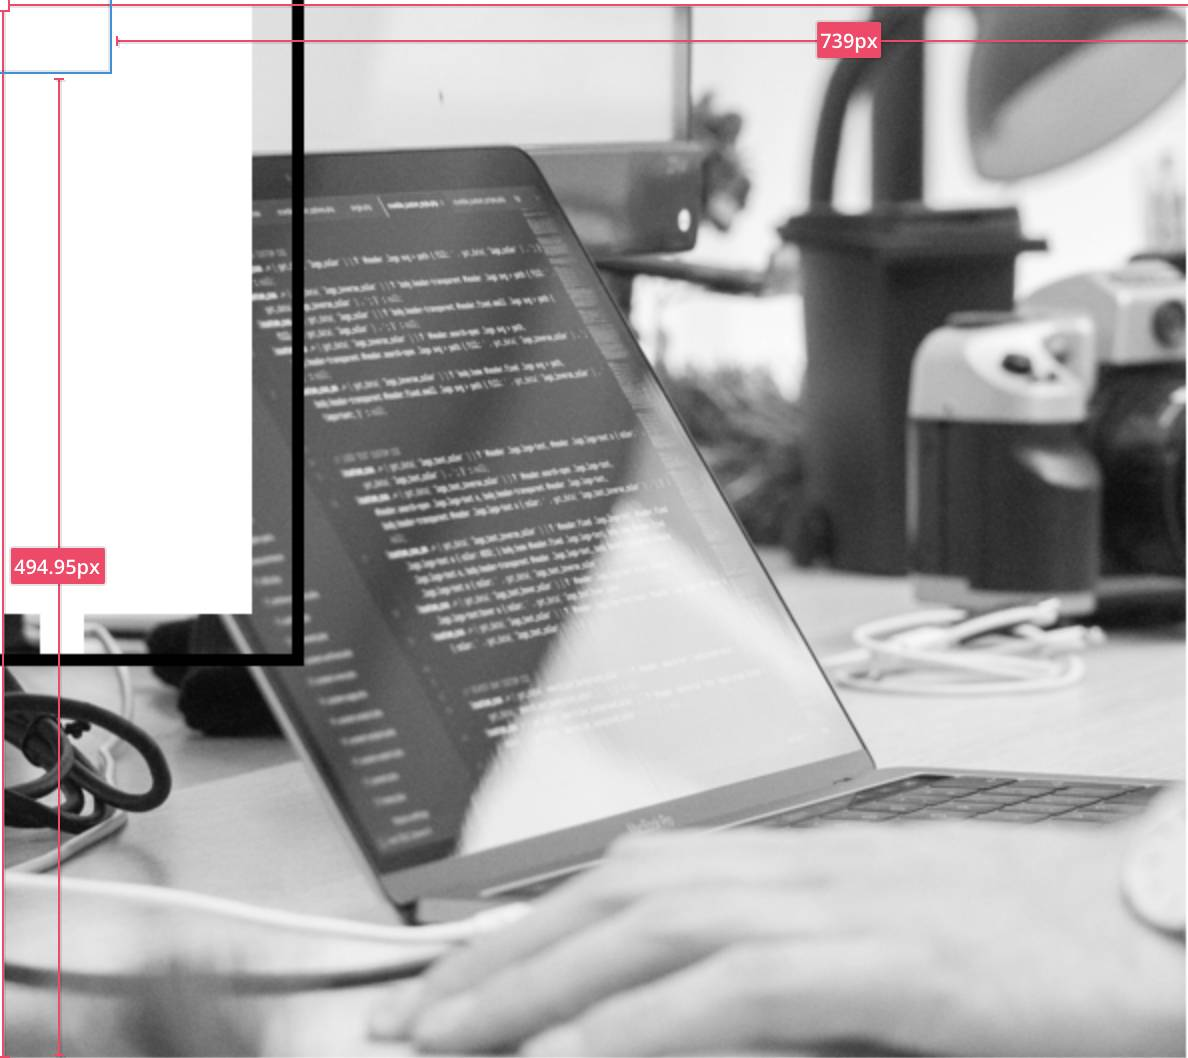
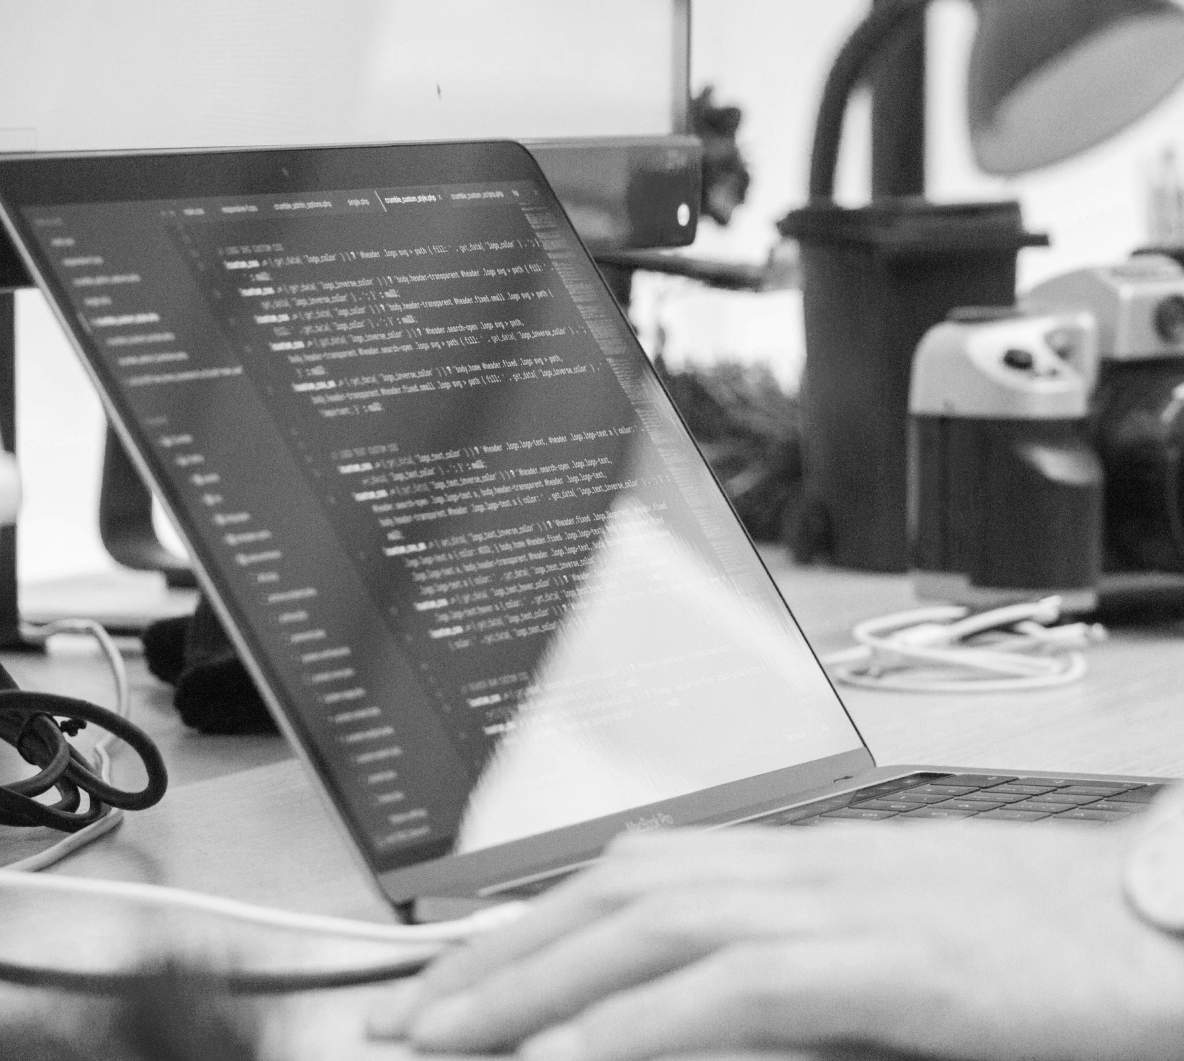
Finish homepage

diff --git a/assets/index.css b/assets/index.css
@@ -28,14 +28,36 @@ p {
   list-style: none;
   margin: 5px 0 0;
 }
-.menu a {
+.menu__link {
   color: #000;
   font-size: 24px;
   font-weight: bold;
   line-height: 32px;
+  letter-spacing: -0.5px;
   text-decoration: none;
   margin: 0 38px 0 0;
   padding: 2px;
+}
+.menu__language {
+  position: relative;
+  padding: 5px 25px 5px 0;
+  margin: 0;
+  font-size: 16px;
+}
+.language--selected {
+  padding: 0 4px;
+  border-bottom: 6px solid #D8D8D8;
+}
+.menu__language:after {
+  position: absolute;
+  content: "";
+  height: 0;
+  width: 0;
+  top: 14px;
+  left: 35px;
+  border-style: solid;
+  border-color: #000 transparent transparent;
+  border-width: 5px;
 }
 
 .header__content {
@@ -63,7 +85,6 @@ p {
 }
 .block p {
   font-size: 32px;
-  font-weight: bold;
   line-height: 40px;
   padding: 0 40px;
 }
@@ -82,13 +103,13 @@ p {
   height: 446px;
   position: absolute;
   z-index: 1;
-  border-bottom: 6px solid black;
+  border-bottom: 6px solid #000;
   padding: 0 20px 20px 0;
   top: 0;
   left: 0;
 }
 .platforms__text::before {
-  content: '';
+  content: "";
   position: absolute;
   z-index: -1;
   top: 20px;
@@ -98,7 +119,7 @@ p {
   background-color: #fff;
 }
 .platforms__text::after {
-  content: '';
+  content: "";
   position: absolute;
   z-index: -1;
   top: 20px;
@@ -113,13 +134,38 @@ p {
   padding: 7px 18px 7px 0;
 }
 .platforms__list {
-  margin: 38px 0 0;
+  margin: 38px 0 0 5px;
+  list-style: none;
 }
 .platforms__list li {
+  position: relative;
   font-size: 29px;
-  letter-spacing: 0;
   line-height: 45px;
   padding: 4px 0 3px;
+}
+.platforms__list li::after {
+  position: absolute;
+  content: none;
+  content: "";
+  height: 0;
+  width: 0;
+  top: 20px;
+  left: -32px;
+  border-bottom: 15px solid #fff;
+  border-left: 9px solid transparent;
+}
+.platforms__list li::before {
+  position: absolute;
+  content: "";
+  height: 0;
+  width: 0;
+  top: 17px;
+  left: -36px;
+  border-bottom: 20px solid #000;
+  border-left: 13px solid transparent;
+  width: 2px;
+  border-bottom-left-radius: 2px;
+  border-top-right-radius: 2px;
 }
 .platforms__image {
   position: absolute;
@@ -127,7 +173,7 @@ p {
   right: 0px;
 }
 .platforms__image::after {
-  content: '';
+  content: "";
   position: absolute;
   z-index: 1;
   top: 0;
@@ -148,12 +194,38 @@ p {
   width: 300px;
 }
 .services__list {
-  margin: 38px 0 0;
+  margin: 38px 0 0 5px;
+  list-style: none;
 }
 .services__list li {
+  position: relative;
   font-size: 29px;
   line-height: 45px;
   padding: 4px 0 3px;
+}
+.services__list li::after {
+  position: absolute;
+  content: none;
+  content: "";
+  height: 0;
+  width: 0;
+  top: 20px;
+  left: -32px;
+  border-bottom: 15px solid #fff;
+  border-left: 9px solid transparent;
+}
+.services__list li::before {
+  position: absolute;
+  content: "";
+  height: 0;
+  width: 0;
+  top: 17px;
+  left: -36px;
+  border-bottom: 20px solid #000;
+  border-left: 13px solid transparent;
+  width: 2px;
+  border-bottom-left-radius: 2px;
+  border-top-right-radius: 2px;
 }
 
 .footer {
@@ -170,9 +242,14 @@ p {
 }
 .footer__text {
   font-size: 29px;
-  font-weight: bold;
   line-height: 39px;
   text-align: center;
+}
+.footer__text a {
+  color: #000;
+  text-decoration: none;
+  font-weight: bold;
+  border-bottom: 6px solid #D8D8D8;
 }
 .footer__copyright {
   margin: 69px 0 0;
@@ -185,9 +262,6 @@ p {
   line-height: 18px;
 }
 
-.image {
-
-}
 .image__logo {
   width: 160px;
   height: 45px;

diff --git a/index.html b/index.html
@@ -7,9 +7,9 @@
     <meta name="viewport" content="width=device-width, initial-scale=1.0">
     <meta charset="utf-8">
 
-    <link rel="apple-touch-icon" type="image/png" sizes="152x152" href="" />
-    <link rel="apple-touch-icon" type="image/png" sizes="76x76" href="" />
-    <link rel="icon" type="image/png" sizes="32x32" href="" />
+    <link rel="apple-touch-icon" type="image/png" sizes="152x152" href="#" />
+    <link rel="apple-touch-icon" type="image/png" sizes="76x76" href="#" />
+    <link rel="icon" type="image/png" sizes="32x32" href="#" />
     <link href="https://fonts.googleapis.com/css?family=Archivo+Narrow:400,700|Caladea:700&display=swap" rel="stylesheet">
     <link rel="stylesheet" type="text/css" href="assets/index.css">
 
@@ -46,19 +46,46 @@
         </a>
         <ul class="menu">
           <li>
-            <a href="#">Home</a>
+            <a
+              class="menu__link"
+              href="/"
+            >
+              Home
+            </a>
           </li>
           <li>
-            <a href="#">Usluge</a>
+            <a
+              class="menu__link"
+              href="services.html"
+            >
+              Usluge
+            </a>
           </li>
           <li>
-            <a href="#">Proizvodi</a>
+            <a
+              class="menu__link"
+              href="products.html"
+            >
+              Proizvodi
+            </a>
           </li>
           <li>
-            <a href="#">Kontakt</a>
+            <a
+              class="menu__link"
+              href="contact.html"
+            >
+              Kontakt
+            </a>
           </li>
           <li>
-            <a href="#">HR</a>
+            <a
+              class="menu__link menu__language"
+              href="#"
+            >
+              <span class="language--selected">
+                HR
+              </span>
+            </a>
           </li>
         </ul>
       </div>
@@ -112,7 +139,7 @@
         <div class="platforms__image">
           <img
             class="image image__content"
-            src="images/leafy.jpg"
+            src="images/platforms.jpg"
             alt="person working on laptop image"
           >
         </div>
